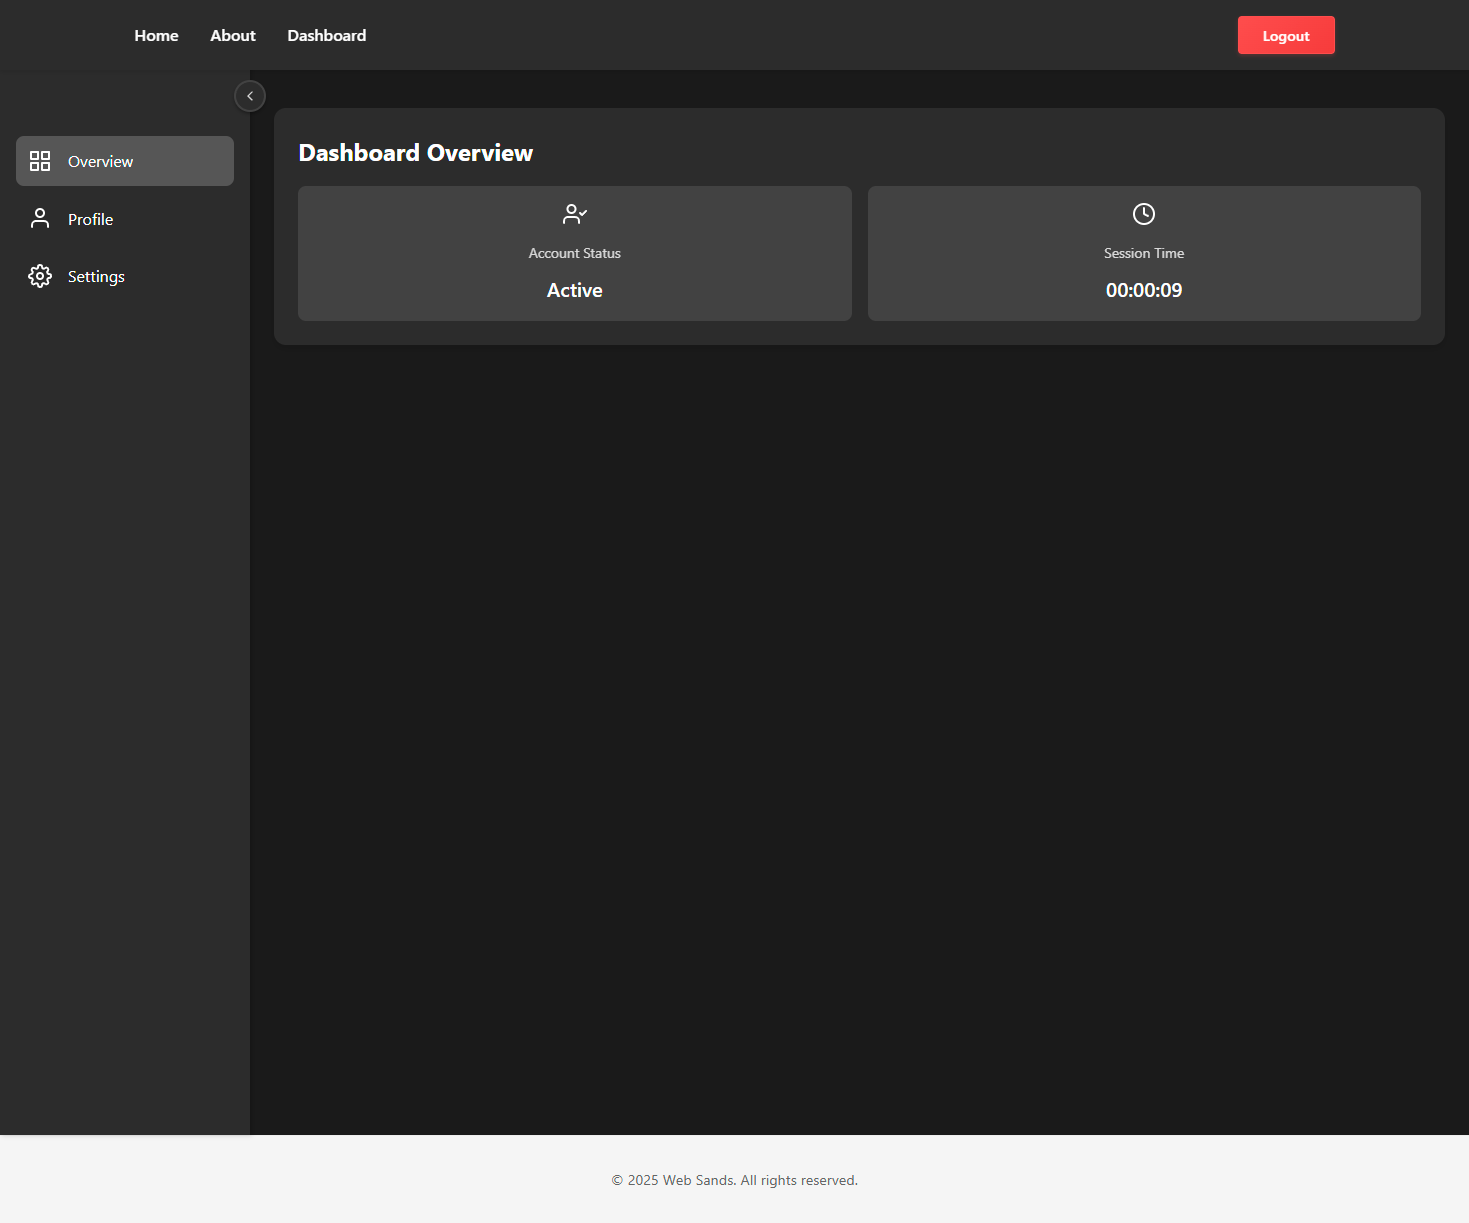
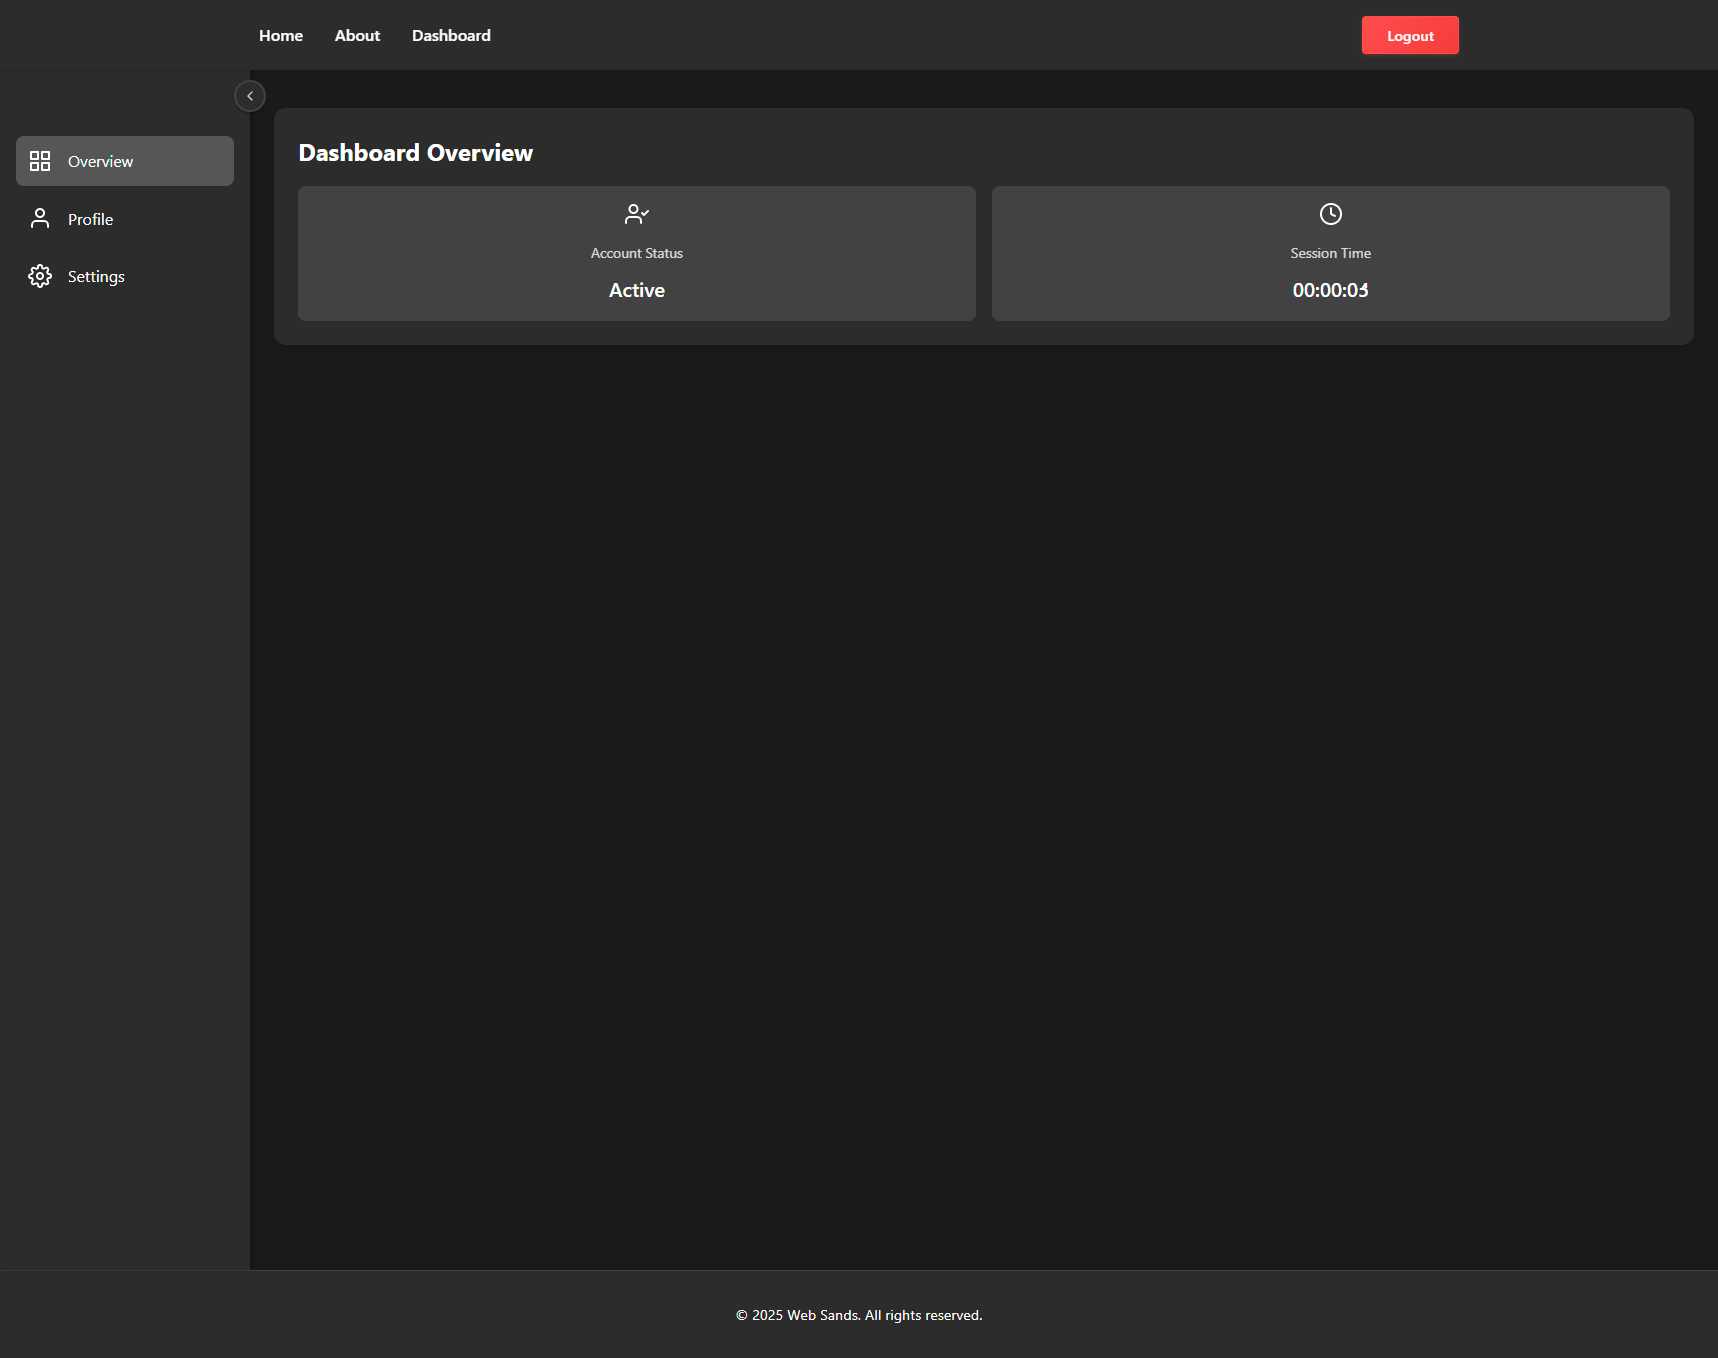
Styles

diff --git a/frontend/dist/index.html b/frontend/dist/index.html
@@ -6,10 +6,10 @@
     <title>OxidizedOasis-WebSands</title>
     <link rel="icon" href="/favicon-2928105af4d1013f.svg" integrity="sha384&#x2D;2o5E9zl758bYaez9kPqsxL5sWIDQtdQMKDyh13foZiC8&#x2B;8glJwZ6pTQyng6wN&#x2F;GC"/>
     <link rel="stylesheet" href="https://cdnjs.cloudflare.com/ajax/libs/font-awesome/6.0.0/css/all.min.css">
-    <link rel="stylesheet" href="/styles-a116ff750d6468f6.css" integrity="sha384&#x2D;45tzvKFhXCdKD5GBldQ&#x2F;A4VWp4bDD3mBnMXwZ9TZEXmXx4mW7Rtsdf9gZHtBQD7W"/>
+    <link rel="stylesheet" href="/styles-a7df36aa285dc438.css" integrity="sha384&#x2D;2hB7yANa69bMN&#x2B;YMo9jnguzj8TBLburPNOFwPqaRkfJqzs2oG3NBpZVpLhsUFV7S"/>
     
     
-<script type="module" nonce="En9P3laOy/N9Xw8F+Ze7Iw==">
+<script type="module" nonce="m0xQ/Y7PRIDZ1mw7EoZcBw==">
 import init, * as bindings from '/frontend-50585484f6cb9ba8.js';
 const wasm = await init('/frontend-50585484f6cb9ba8_bg.wasm');
 

diff --git a/frontend/static/styles.css b/frontend/static/styles.css
@@ -953,9 +953,9 @@ input:checked + .slider:before {
 footer {
     text-align: center;
     padding: 2rem;
-    color: #666;
+    color: #ffffff;
     font-size: 0.9rem;
-    background: #f5f5f5;
-    border-top: 1px solid #eee;
+    background: #2c2c2c;
+    border-top: 1px solid rgba(255, 255, 255, 0.1);
     margin-top: auto;
 }
